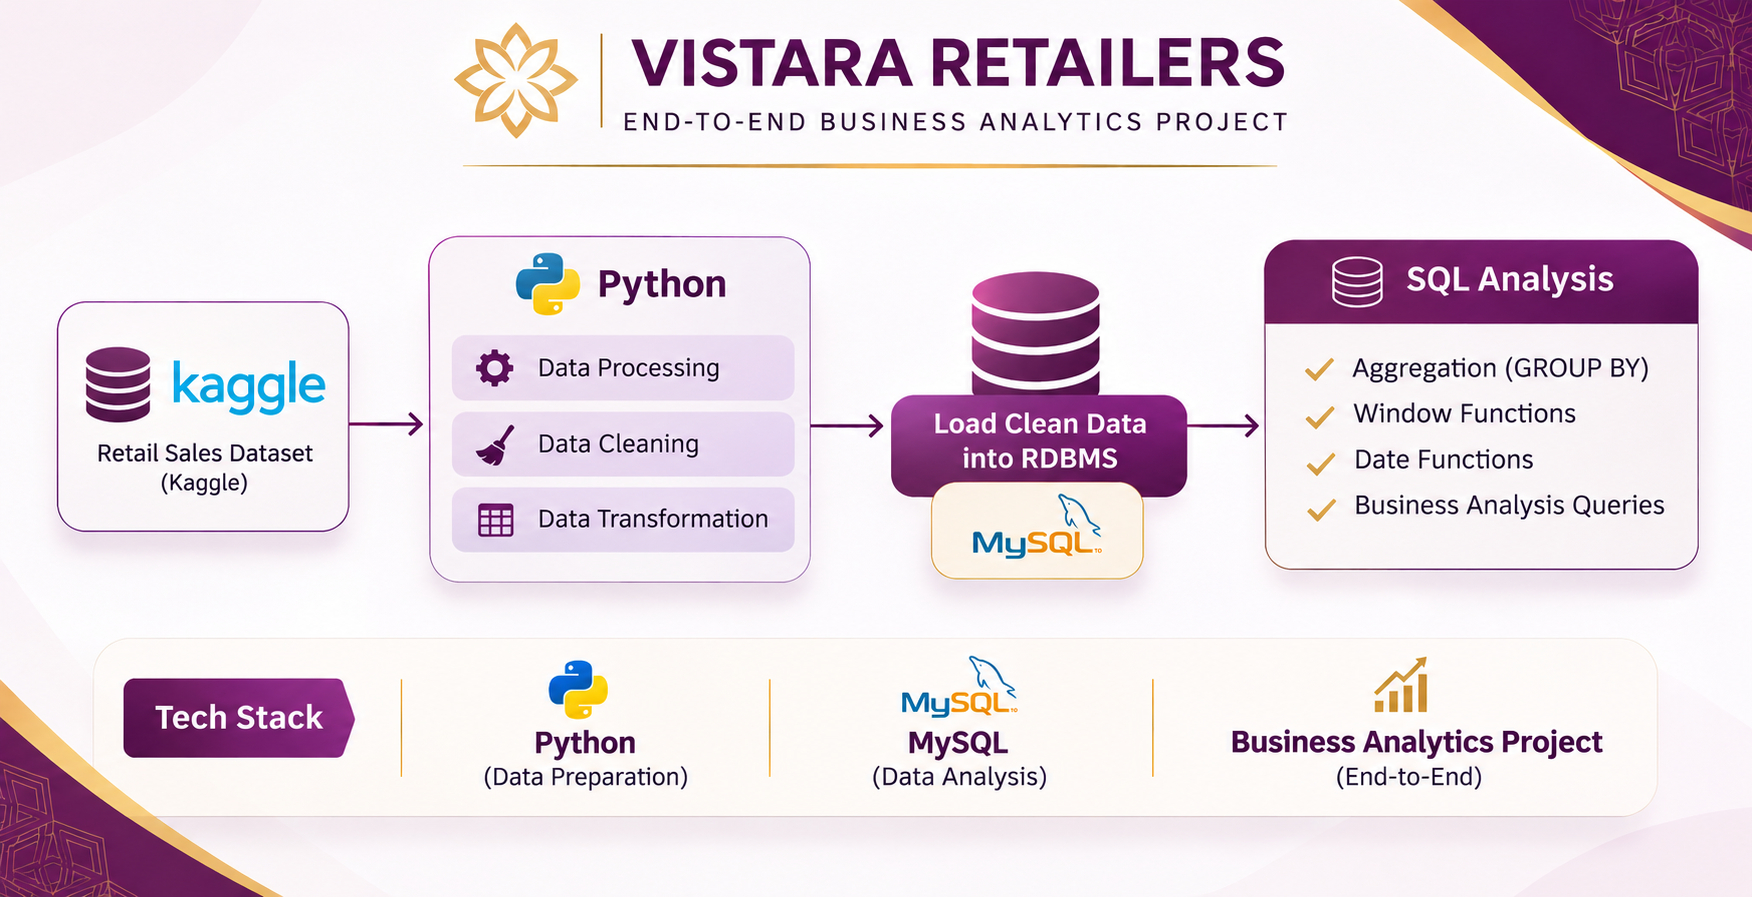
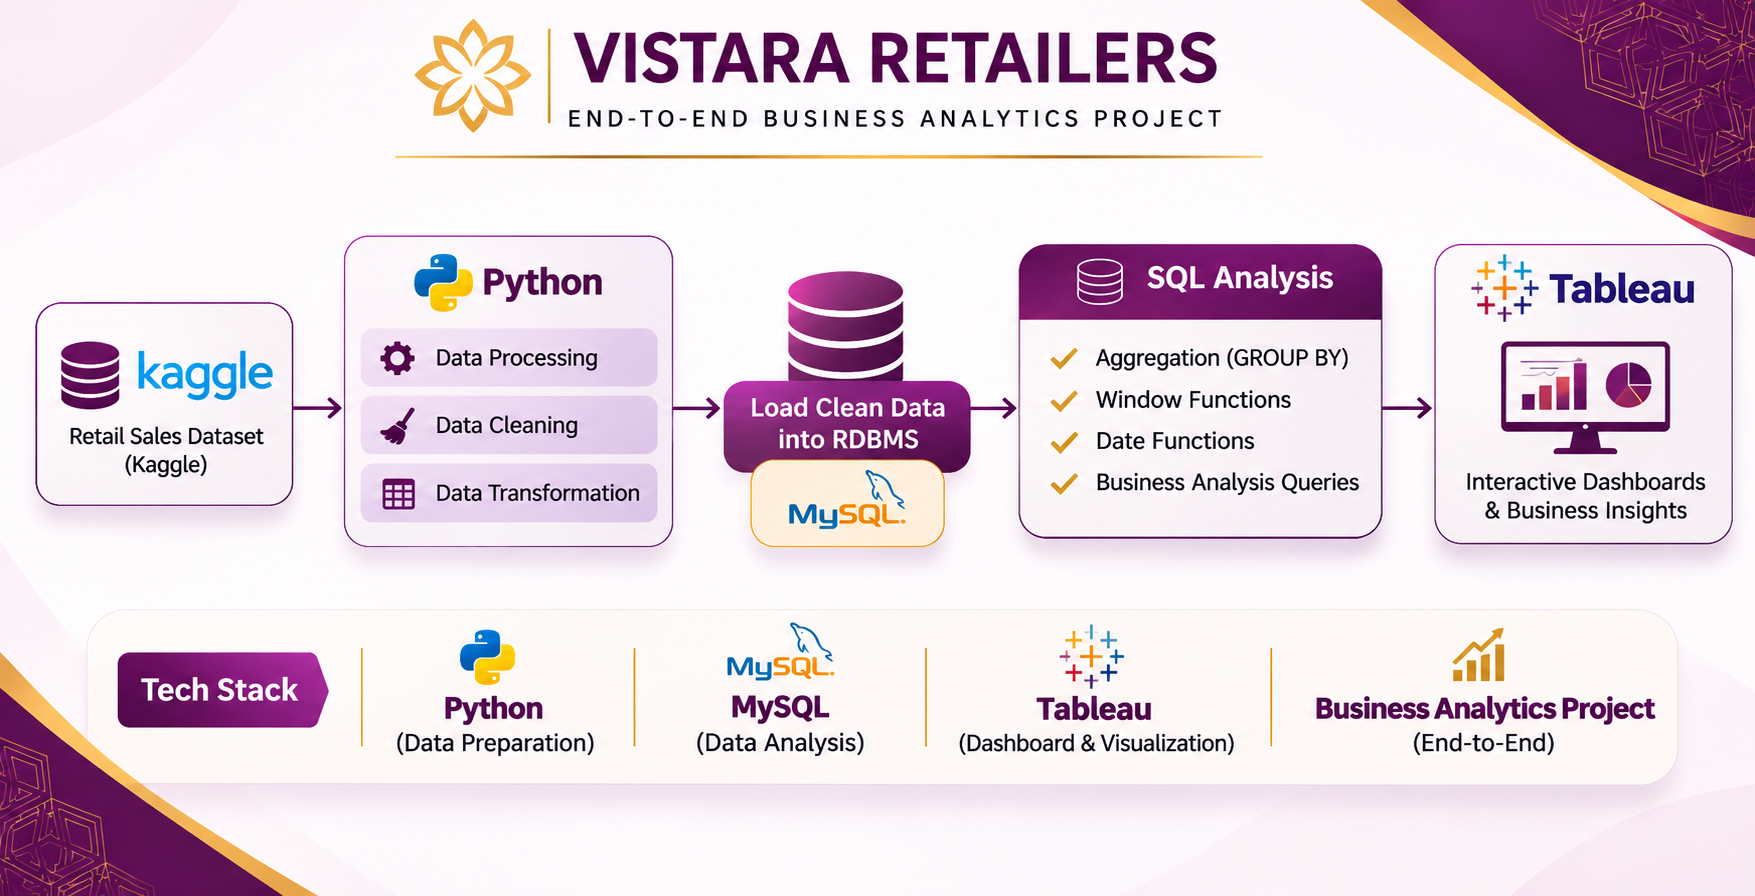
readme modified

diff --git a/README.md b/README.md
@@ -1,10 +1,13 @@
 # Vistara Retailers Sales Analysis
 
-Vistara is a Python and MySQL data-analysis project that explores retail sales performance across branches, cities, product categories, payment methods, and time periods.
+Vistara is a Python, MySQL and Tableau data-analysis project that explores retail sales performance across branches, cities, product categories, payment methods, and time periods.
 
 The workflow cleans a raw transaction dataset, calculates revenue and profit, exports the processed data to MySQL, and answers a collection of business questions using SQL.
 
 ![Project Architecture](./project-architecture.png)
+
+
+[Visit Tableau Dashboard](https://public.tableau.com/app/profile/mayank.goyal8794/viz/vistara_dashboard/SalesPerformace)
 
 ## Key Features
 
